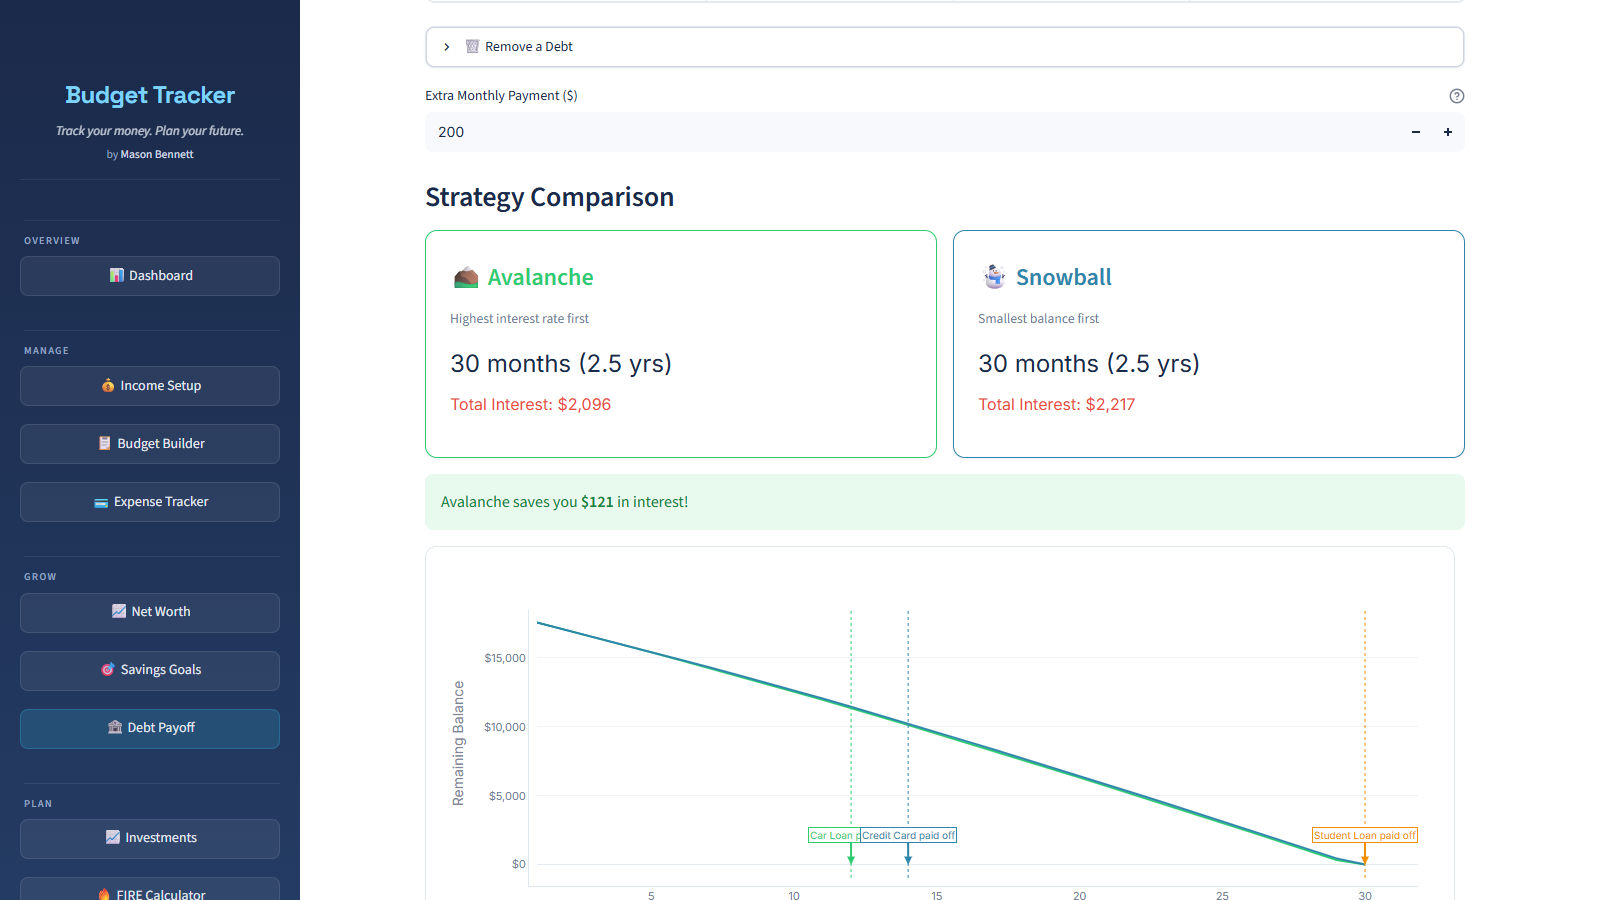
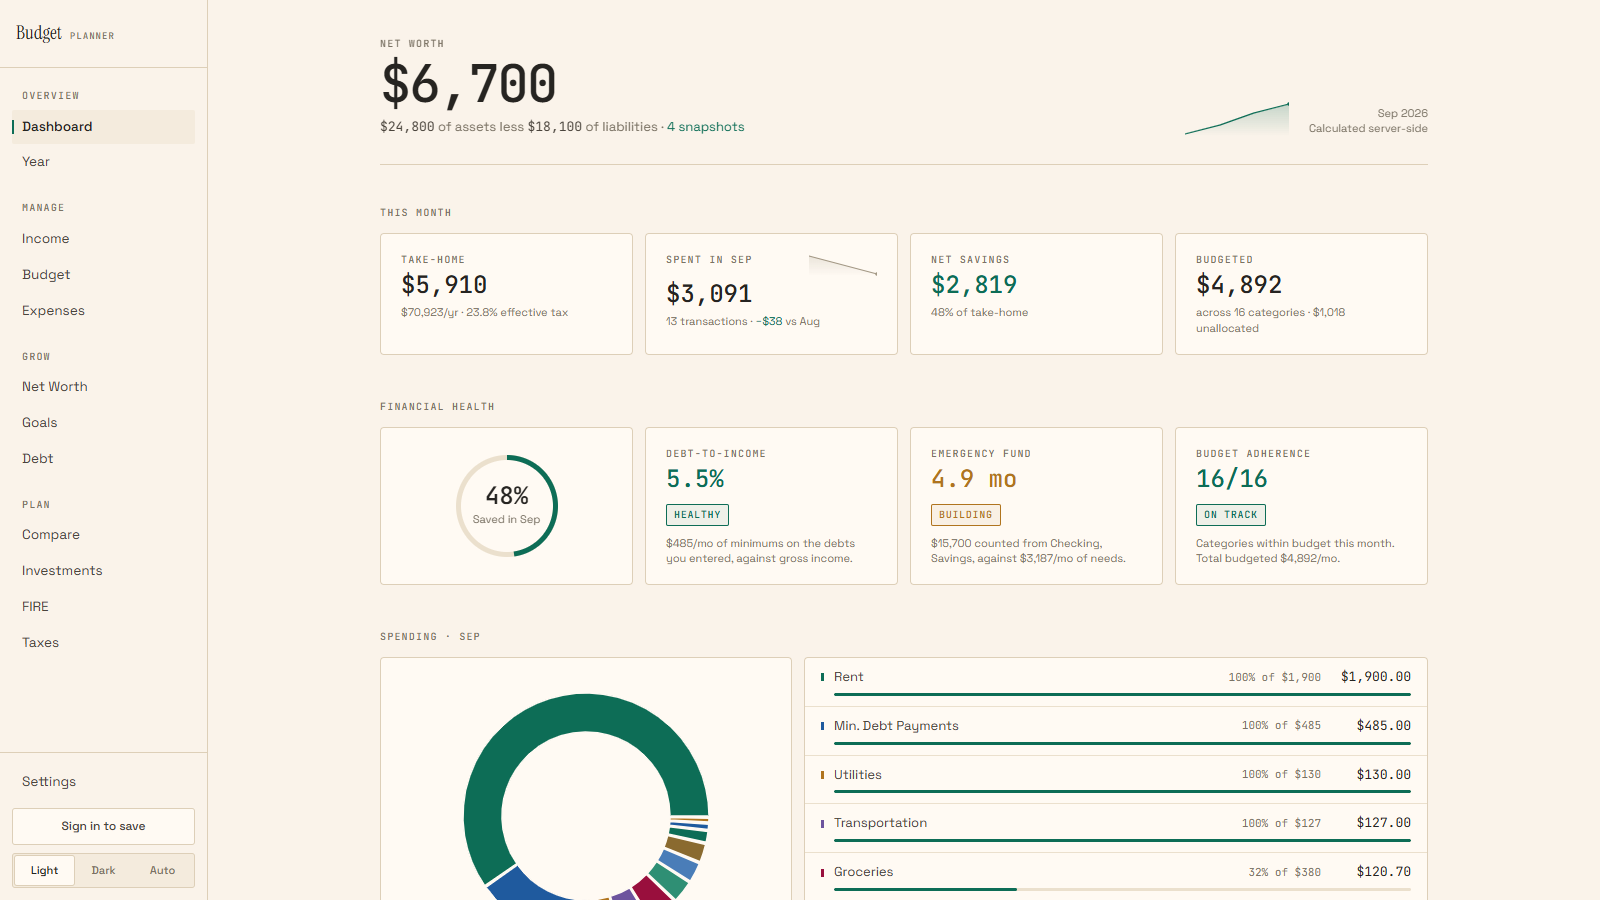
Point the budgeting app at budget.masonjbennett.com
The Next.js/FastAPI rebuild is live, verified against the real domain
(130 sweep + 63 interaction assertions, every route 200 in under 0.6s),
and is the primary now. Three places carried the Streamlit URL: the
project card, the recruiter-safe link list, and llms.txt.

The card's description and tags described the Streamlit app, so both are
rewritten: the stack is Next.js over a Python calculation service, the
feature list gains bank-CSV import, the calendar-year view and the
savings-rate curve, and the counts are the real ones — 521 assertions
and 33 mutation tests against the shipping engine plus 225 browser
assertions. The line worth having is why the arithmetic is all
server-side: the maths had already drifted into three copies that
disagreed, which is the actual engineering story on this project.

The screenshot showed the Streamlit app. Replaced with a 1600x900
capture of production, matching the card's 16:9 objectFit cover so
nothing is cropped.

The PORTFOLIO app is deliberately untouched and still on Streamlit.

Verified on the built site: the card and the recruiter packet both link
to the new domain, no link anywhere still points at the Streamlit budget
app, the image loads at 1600x900, no page errors.

diff --git a/src/App.jsx b/src/App.jsx
@@ -34,7 +34,7 @@ const PORTFOLIO = [
 const PROJECTS = [
   { title: "Filings Terminal", desc: "Type a ticker and get eight years of any US public company's financial statements, straight from its SEC filings — every figure clickable back to the filing it came from. Nothing is estimated and no AI touches the data. It exports to a real Excel workbook, builds comps sets, and breaks a company into its reported segments. Filers share no common format, so it reads all 10,387 on their own terms and rebuilds the sheet by business type — banks, insurers and REITs are judged on different measures, and each gets the ones analysts use. Anything a company never reported is marked as such rather than guessed. Tested against 426 companies across six deliberately different populations — mega caps, micro caps, foreign issuers, fiscal-year changes, restatements and bankruptcy emergences.", tags: ["React", "SEC Filings", "XBRL", "Financial Statements", "Serverless"], status: "Live", completed: "Aug 2026", updated: "Aug 17, 2026", img: "/projects/filings-terminal.png", url: "https://github.com/masonjbennett/filings-terminal", demo: "https://filings.masonjbennett.com" },
   { title: "ML Credit Default Classifier", desc: "A machine-learning credit-risk study on a 70,000-loan near-prime dataset that reached 0.9931 ROC-AUC, up from a 0.58 gradient-boosting baseline — through pairwise-interaction features, PCA noise-filtering, pseudo-labelling, and a 60-seed bagged neural-network ensemble with per-fold LightGBM feature selection. I directed the project and reviewed and interpreted the full six-stage workflow; the coding and much of the experimental brainstorming were AI-driven, which the course explicitly encouraged. The write-up documents every stage, ablation, and negative result.", tags: ["Machine Learning", "AI-Directed", "Ensembling & PCA", "Credit Risk"], status: "Completed", completed: "May 2026", url: "/projects/fda2-report.pdf" },
-  { title: "Personal Budgeting App", desc: "Full-stack personal finance tool with 11 modules: income & tax estimation for all 50 states on 2026 IRS brackets (OBBBA SALT phase-out, the new charitable floors, Medicare surtax by filing status), a 50/30/20 budget builder, expense tracking with CSV import, net worth and savings goals, an avalanche-vs-snowball debt planner with amortization, an investment projector with employer-match modelling, FIRE projections with Monte Carlo, and a standard-vs-itemized tax optimizer that feeds back into take-home. Accounts and cloud sync on Supabase with row-level security. 239 assertions run against the shipping calculation engine — no second copy of the maths to drift.", tags: ["Python", "Streamlit", "Supabase", "Personal Finance", "Tax Planning"], status: "Completed", completed: "Apr 2026", updated: "Sep 1, 2026", img: "/projects/budgeting-app.png", url: "https://github.com/masonjbennett/budgeting-app", demo: "https://masonbennett-budget.streamlit.app/" },
+  { title: "Personal Budgeting App", desc: "Personal finance planner: a Next.js front end over a Python calculation service. Income and tax estimation for all 50 states on 2026 IRS brackets (OBBBA SALT phase-out, the new charitable floors, Medicare surtax by filing status), a budget builder, expense tracking with bank-CSV import, a calendar-year view, net worth and savings goals, an avalanche-vs-snowball debt planner with amortization, an investment projector with employer-match modelling, and FIRE projections with a Monte Carlo and a savings-rate curve. Accounts and cloud sync on Supabase with row-level security. Every figure is computed server-side from one shared Python engine — no arithmetic in the front end, because the maths had already drifted into three copies that disagreed. 521 assertions and 33 mutation tests run against the shipping engine, plus 225 browser assertions covering every route in both themes.", tags: ["Next.js", "FastAPI", "Python", "Supabase", "Tax Planning"], status: "Completed", completed: "Apr 2026", updated: "Sep 3, 2026", img: "/projects/budgeting-app.png", url: "https://github.com/masonjbennett/budgeting-app", demo: "https://budget.masonjbennett.com" },
   { title: "Portfolio Analytics App", desc: "Real-time equity portfolio construction and optimization tool with 6 analytical modules. Mean-variance optimization (GMV & Tangency), efficient frontier with CAL, CAPM beta/alpha regression, risk contribution decomposition (PRC), and estimation window sensitivity analysis. Features a tiered tooltip system (Beginner/Intermediate/Advanced) that adapts explanations to the user's knowledge level, custom portfolio builder with live frontier plotting, and CSV/Excel export.", tags: ["Python", "Streamlit", "Portfolio Optimization", "scipy"], status: "Completed", completed: "Apr 2026", updated: "Aug 29, 2026", img: "/projects/portfolio-app.png", url: "https://github.com/masonjbennett/portfolio-app", demo: "https://portfolio-app-ifh8afmcuxkyr6ivov9fmj.streamlit.app/" },
   { title: "Applied Econometrics — Hurricane Michael", desc: "Regression analysis studying Hurricane Michael's impact on Florida housing prices across 67 counties. Built MLR and Difference-in-Difference models achieving R² of 0.59, identifying a $36,631 median price decline in affected counties. Analyzed median income, unemployment, elevation, FEMA risk indices, and population density as determinants.", tags: ["Stata", "Econometrics", "Regression Analysis", "Diff-in-Diff"], status: "Completed", completed: "Apr 2024", url: "/hurricane-paper.docx" },
 ];
@@ -73,7 +73,7 @@ const ARTIFACTS = [
   { label: "The Technicals Desk — original interview question bank", tab: "projects", id: "technicals-desk" },
   { label: "The Lexicon — 300-term original finance dictionary", tab: "projects", id: "lexicon" },
   { label: "Filings Terminal — eight years of any public company's financials, live tool", href: "https://filings.masonjbennett.com", recruiterSafe: true },
-  { label: "Personal budgeting app — live demo", href: "https://masonbennett-budget.streamlit.app/", recruiterSafe: true },
+  { label: "Personal budgeting app — live demo", href: "https://budget.masonjbennett.com", recruiterSafe: true },
   { label: "Portfolio analytics app — live demo", href: "https://portfolio-app-ifh8afmcuxkyr6ivov9fmj.streamlit.app/", recruiterSafe: true },
   { label: "Bloomberg Market Concepts certificate (PDF)", href: "/bmc-certificate.pdf", recruiterSafe: true },
   { label: "GitHub", href: "https://github.com/masonjbennett", recruiterSafe: true },
